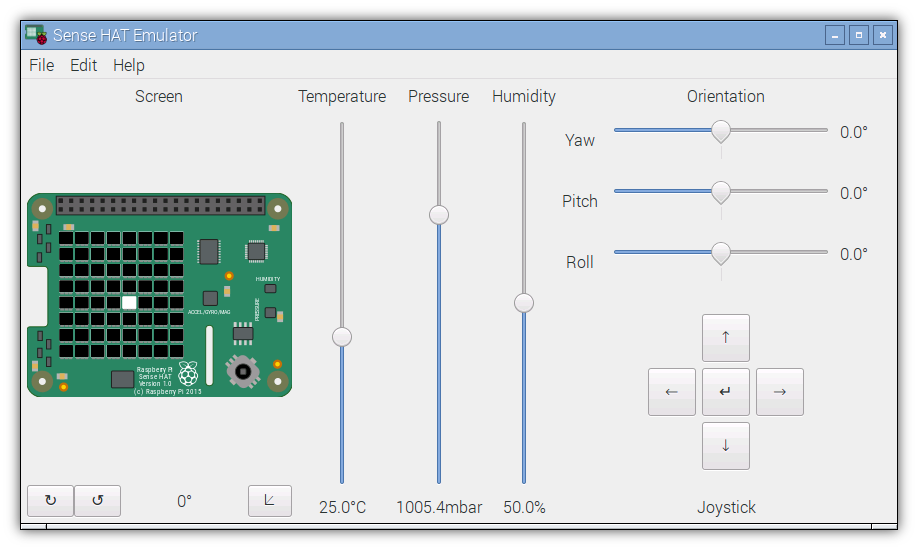
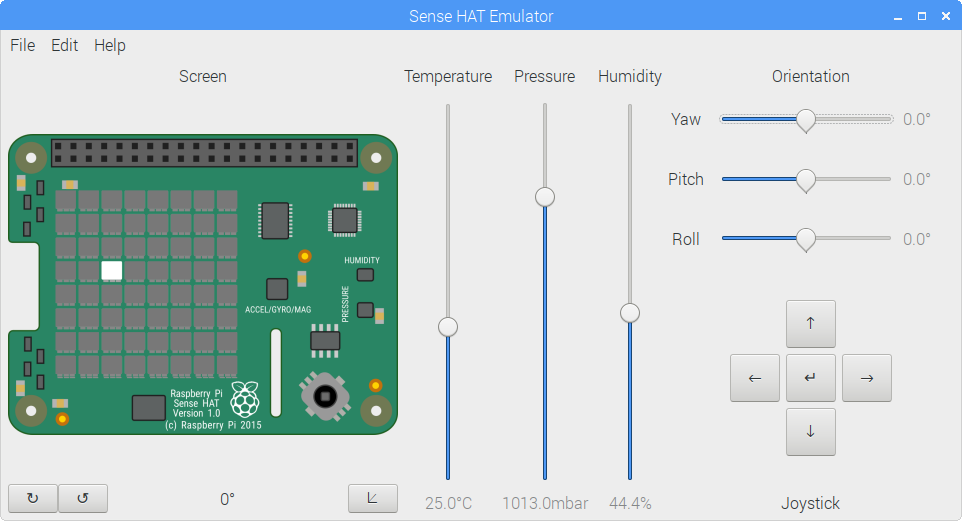
Update screenshots and doc styles
Bring the screenshots up to date with modern Raspbian, and tweak some of
the RTD styles to make things a bit prettier (syntax highlighting in
code blocks etc.)

diff --git a/docs/conf.py b/docs/conf.py
@@ -70,6 +70,7 @@ release = _setup.__version__
 #language = None
 #today_fmt = '%B %d, %Y'
 exclude_patterns = ['_build']
+highlight_language = 'python3'
 #default_role = None
 #add_function_parentheses = True
 #add_module_names = True
@@ -121,8 +122,8 @@ htmlhelp_basename = '%sdoc' % _setup.__project__
 
 # Hack to make wide tables work properly in RTD
 # See https://github.com/snide/sphinx_rtd_theme/issues/117 for details
-#def setup(app):
-#    app.add_stylesheet('style_override.css')
+def setup(app):
+    app.add_stylesheet('style_override.css')
 
 # -- Options for LaTeX output ---------------------------------------------
 

diff --git a/docs/sense_rec.rst b/docs/sense_rec.rst
@@ -5,12 +5,15 @@ sense_rec
 =========
 
 Records sensor readings from the Raspberry Pi Sense HAT in real time,
-outputting the results to a file for later playback or analysis.
+outputting the results to a file for later playback or analysis. This is most
+useful for preparing records of experiments for use with the Sense HAT
+emulator. For example, a recording of a Sense HAT being dropped, a recording of
+a `HAB`_ flight, a recording of the cycle of temperature over a few days, etc.
 
 Synopsis
 ========
 
-::
+.. code-block:: text
 
     sense_rec [-h] [--version] [-q] [-v] [-l FILE] [-P] [-c CONFIG]
               [-d DURATION] [-f] output
@@ -63,45 +66,65 @@ Examples
 ========
 
 To record an experiment with the Sense HAT, simply execute :program:`sense_rec`
-with the filename you wish to record the results::
+with the filename you wish to record the results:
+
+.. code-block:: console
 
     $ sense_rec experiment.hat
 
 By default, the recording will continue indefinitely. Press :kbd:`Control-C`
 to terminate the recording. If you want to record for a specific duration,
-you can use the :option:`--duration` option to specify the number of seconds::
+you can use the :option:`--duration` option to specify the number of seconds:
+
+.. code-block:: console
 
     $ sense_rec --duration 10 short_experiment.hat
 
 This tool can be run simultaneously with scripts that use the Sense HAT. Simply
 start your script in one terminal, then open another to start
 :program:`sense_rec`. Alternatively, you can use the shell's job control
-facilities to start recording in the background::
+facilities to start recording in the background:
+
+.. code-block:: console
 
     $ sense_rec experiment.hat &
     $ python experiment.py
     ...
     $ kill %1
 
+.. warning::
+
+    Be aware that other scripts attempting to use the HAT's sensors will
+    likely obtain different readings than they would have if run standalone.
+    Some of the HAT's sensors are affected by their query-rate, and
+    :program:`sense_rec` drives all sensors at close to their maximum rate.
+
 If :file:`-` is specified as the output file, :program:`sense_rec` will write
 its output to stdout. This can be used to reduce the disk space required for
 long output by piping the output through a compression tool like
-:program:`gzip`::
+:program:`gzip`:
+
+.. code-block:: console
 
     $ sense_rec - | gzip -c - > experiment.hat.gz
 
 When compressed in this manner the data typically uses approximately 3Kb per
 second (without :program:`gzip` the recording will use approximately 10Kb of
 disk space per second). Use :program:`gunzip` to de-compress the data for
-playback or analysis::
+playback or analysis:
+
+.. code-block:: console
 
     $ gunzip -c experiment.hat.gz | sense_play -
 
 Alternatively, you can use this in conjunction with :program:`sense_csv` to
-produce CSV output directly::
+produce CSV output directly:
+
+.. code-block:: console
 
     $ sense_rec - | sense_csv - experiment.csv
 
 Be warned that CSV data is substantially larger than the binary format (CSV
 data uses approximately 25Kb per second).
 
+.. _HAB: https://en.wikipedia.org/wiki/High-altitude_balloon

diff --git a/docs/sense_play.rst b/docs/sense_play.rst
@@ -10,7 +10,7 @@ emulation library.
 Synopsis
 ========
 
-::
+.. code-block:: text
 
     sense_play [-h] [--version] [-q] [-v] [-l FILE] [-P] input
 
@@ -48,20 +48,26 @@ Examples
 ========
 
 To play back an experiment recorded from the Sense HAT, simply execute
-:program:`sense_play` with the filename you wish to play back::
+:program:`sense_play` with the filename you wish to play back:
+
+.. code-block:: console
 
     $ sense_play experiment.hat
 
 Playback will start immediately and continue in real-time (at the recording
 rate) until the file is exhausted. If you wish to start an emulated script
-at the same time as playback, you can use the shell's job control facilities::
+at the same time as playback, you can use the shell's job control facilities:
+
+.. code-block:: console
 
     $ sense_play experiment.hat & python experiment.py
 
 If :file:`-` is specified as the input file, :program:`sense_play` will read
 its from stdin. This can be used to play back compressed recordings (see
 Examples under :program:`sense_rec`) without using any disk space for
-decompression::
+decompression:
+
+.. code-block:: console
 
     $ gunzip -c experiment.hat.gz | sense_play -
 
@@ -71,4 +77,3 @@ decompression::
     tasks, or because the data cannot be read quickly enough from the SD card),
     :program:`sense_play` will skip records and print a warning to the console
     at the end of playback with the number of records skipped.
-

diff --git a/docs/sense_csv.rst b/docs/sense_csv.rst
@@ -10,7 +10,7 @@ analysis.
 Synopsis
 ========
 
-::
+.. code-block:: text
 
     sense_csv [-h] [--version] [-q] [-v] [-l FILE] [-P]
               [--timestamp-format TIMESTAMP_FORMAT] [--header] input output
@@ -58,7 +58,9 @@ Examples
 ========
 
 To convert a recording to CSV, simply run :program:`sense_csv` with the
-recorded file as the first filename, and the output CSV file as the second::
+recorded file as the first filename, and the output CSV file as the second:
+
+.. code-block:: console
 
     $ sense_csv experiment.hat experiment.csv
 
@@ -106,7 +108,9 @@ By default, only the data is output, with the columns defined as follows:
 17. Orientation Z-axis.
 
 If you wish to include column headers as the first row of data, simply
-specify the :option:`--header` option::
+specify the :option:`--header` option:
+
+.. code-block:: console
 
     $ sense_csv --header experiment.hat experiment.csv
 
@@ -114,7 +118,8 @@ If :file:`-` is specified for either filename, :program:`sense_csv` will read
 from stdin, or write to stdout. This can be used in conjunction with other
 standard command line utilities for all sorts of effects. For example, to
 produce a CSV file containing only the timestamps, humidity, and accelerometer
-readings::
+readings:
+
+.. code-block:: console
 
     $ sense_csv --header experiment.hat - | cut -d, -f1,4,6-8 > experiment.csv
-

diff --git a/docs/install.rst b/docs/install.rst
@@ -93,7 +93,7 @@ For existing virtual environments:
 
 .. code-block:: console
 
-    $ rm $venv_dir/lib/pythonX.X/no-global-site-packages.txt
+    $ rm ${VIRTUAL_ENV}/lib/python*/no-global-site-packages.txt
 
 For new virtual environments:
 

diff --git a/docs/api.rst b/docs/api.rst
@@ -54,4 +54,3 @@ Constants
 .. data:: ACTION_HELD
 
     Constants representing the actions that can be applied to the joystick.
-
